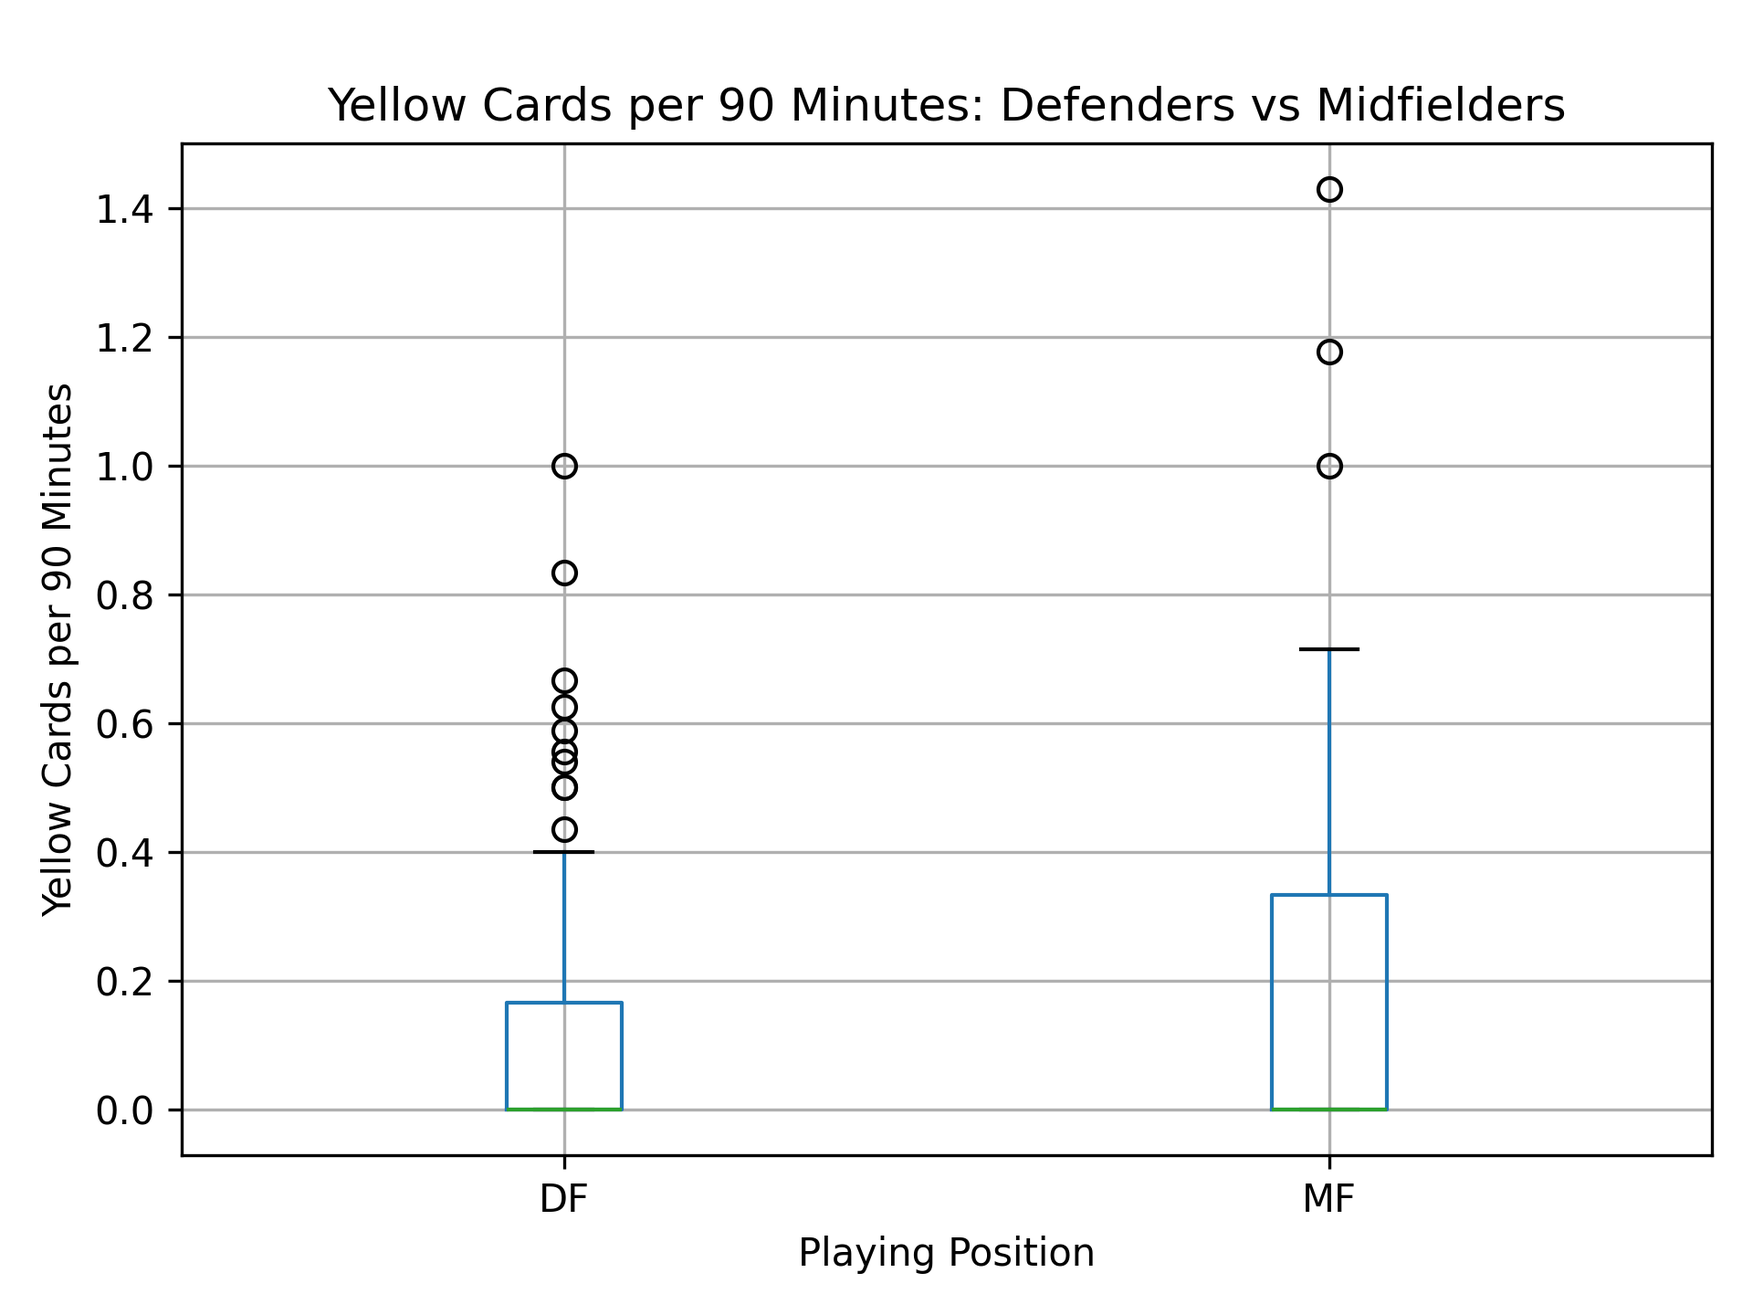
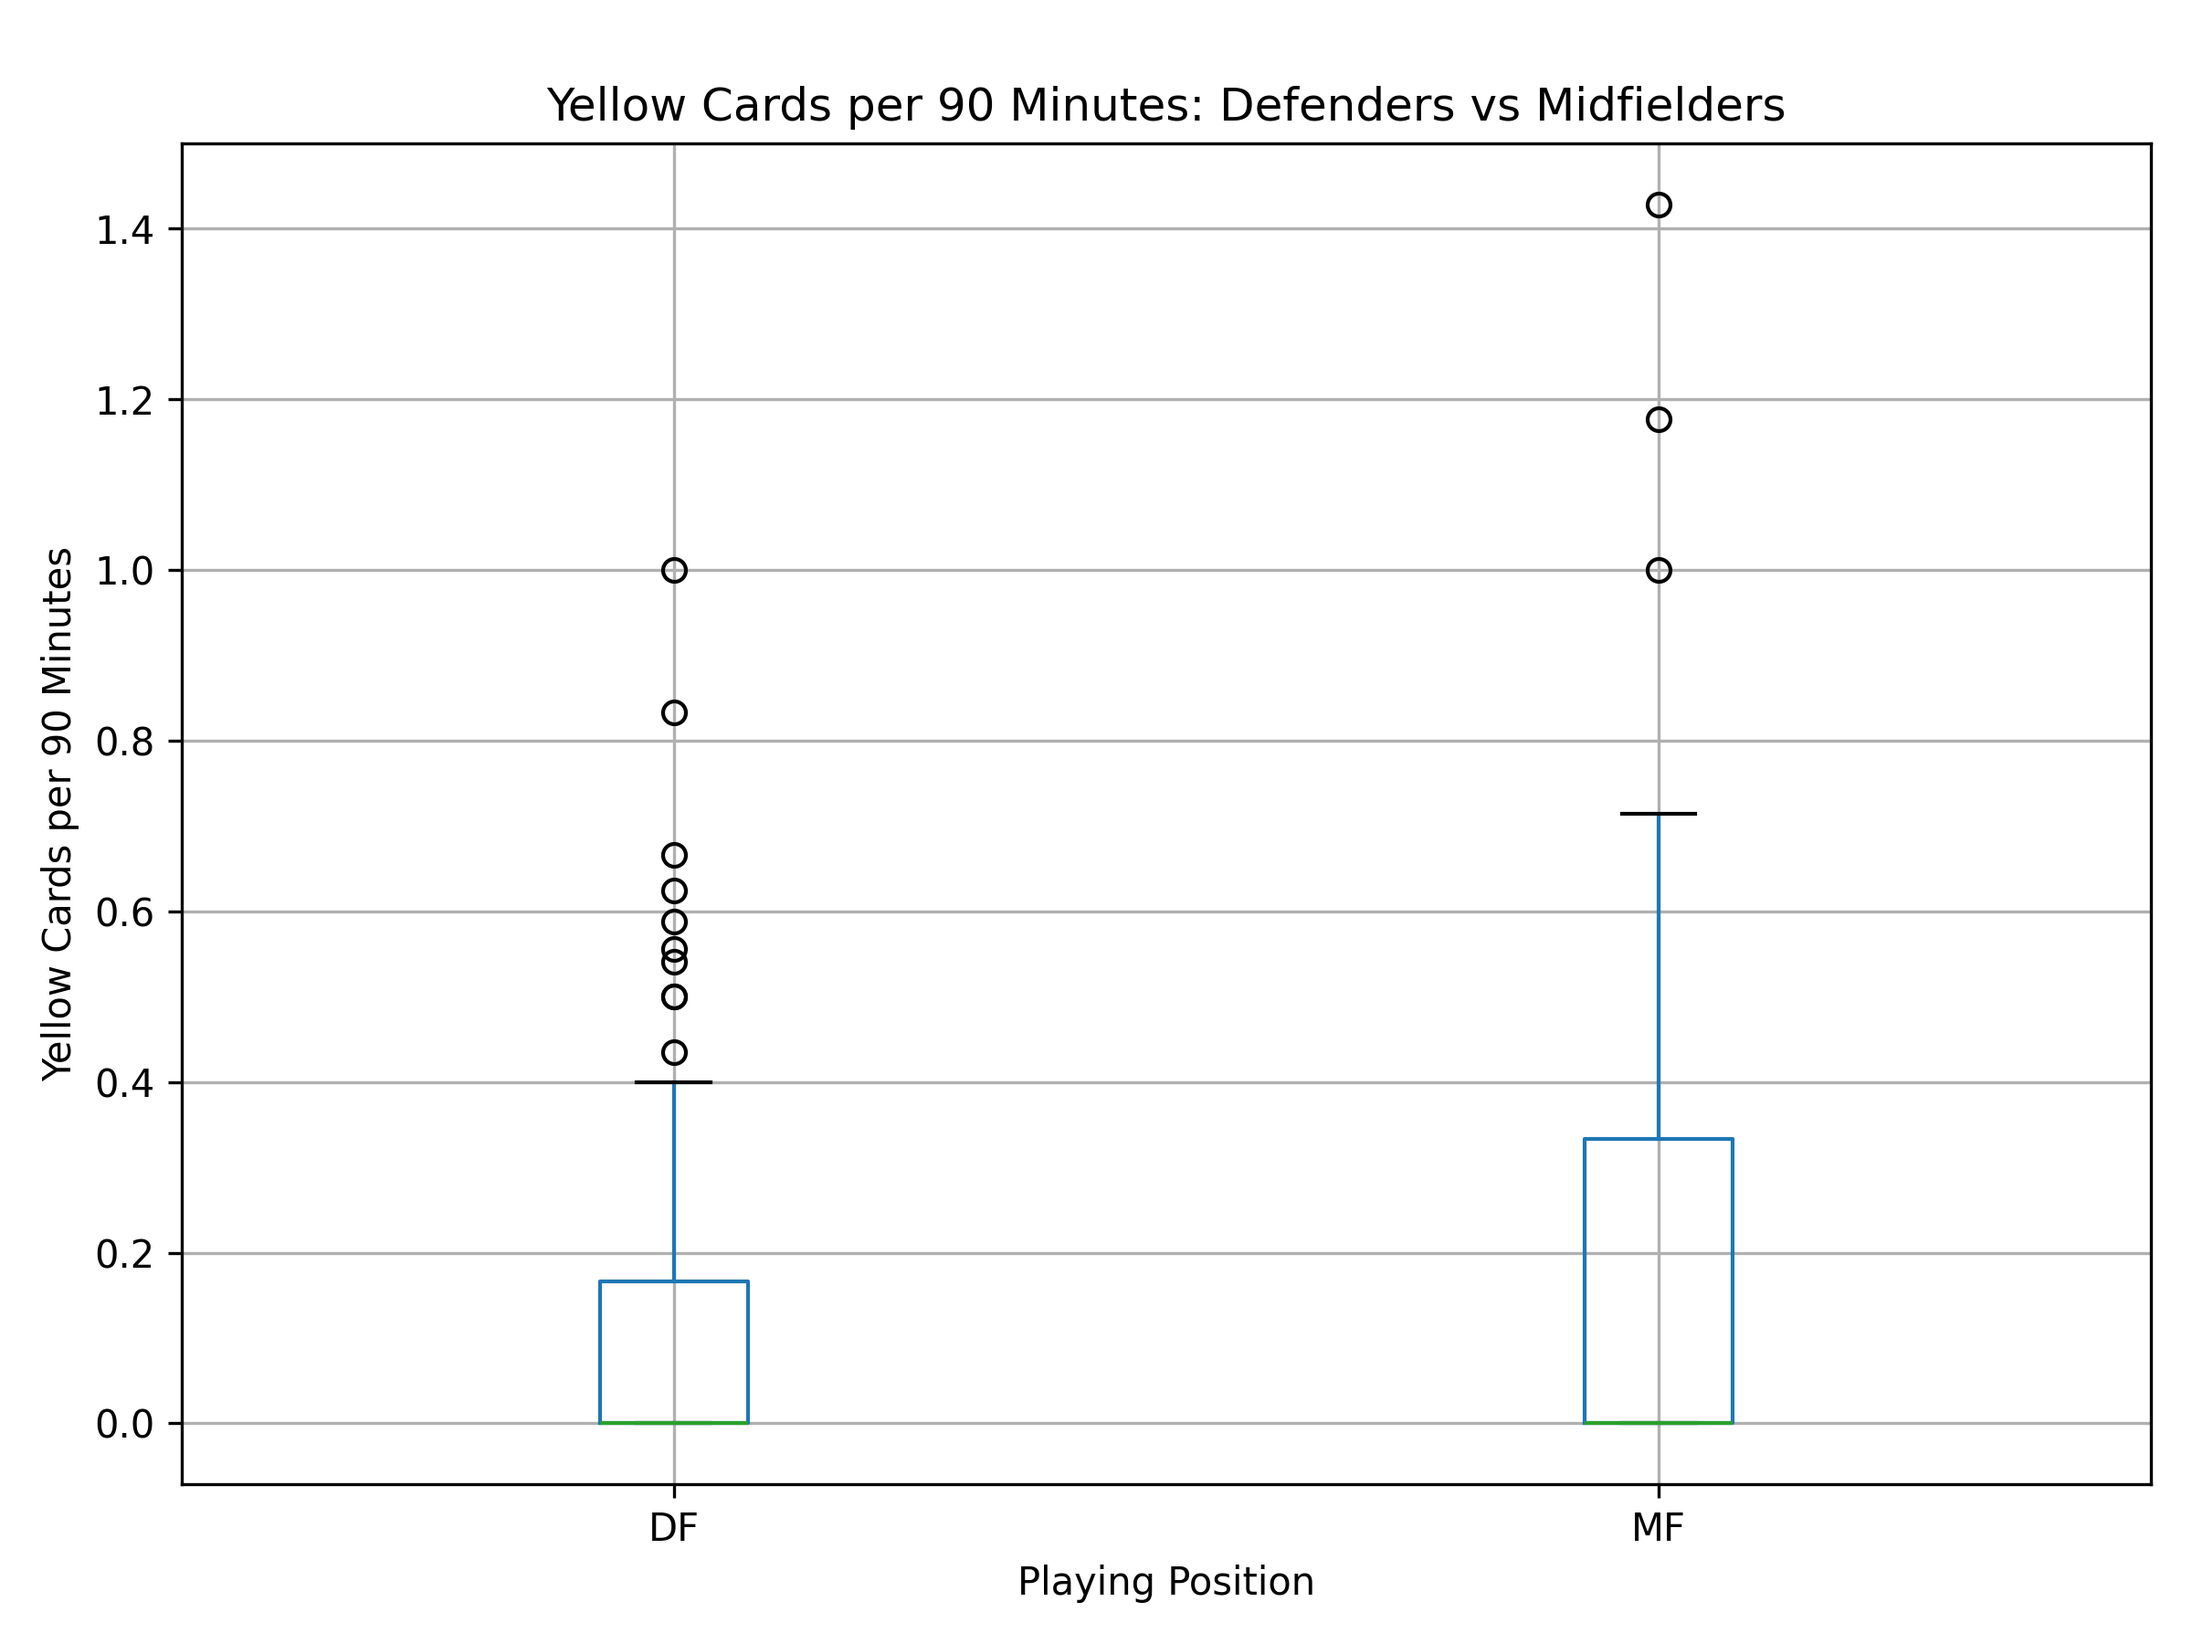
Fix discipline boxplot generation

diff --git a/Objective_1/Discipline/discipline_analysis.py b/Objective_1/Discipline/discipline_analysis.py
@@ -125,18 +125,18 @@ results_table.to_csv(
     index=False
 )
 
-# Create boxplot
-plt.figure(figsize=(8, 6))
-
-sample.boxplot(
+# Create boxplot and grab the axis directly to prevent blank figures
+ax = sample.boxplot(
     column="Yellow_Cards_Per_90",
-    by="Pos"
+    by="Pos",
+    figsize=(8, 6)
 )
 
-plt.title("Yellow Cards per 90 Minutes: Defenders vs Midfielders")
+# Apply formatting directly to the active plot axis
+ax.set_title("Yellow Cards per 90 Minutes: Defenders vs Midfielders")
 plt.suptitle("")
-plt.xlabel("Playing Position")
-plt.ylabel("Yellow Cards per 90 Minutes")
+ax.set_xlabel("Playing Position")
+ax.set_ylabel("Yellow Cards per 90 Minutes")
 
 plt.tight_layout()
 
